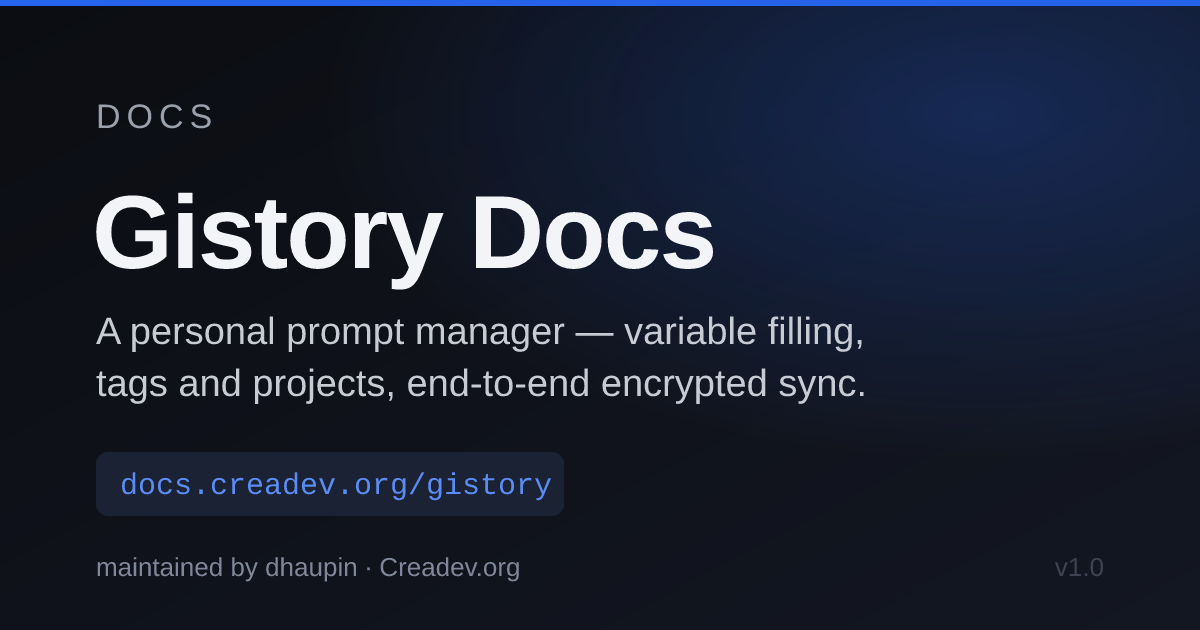
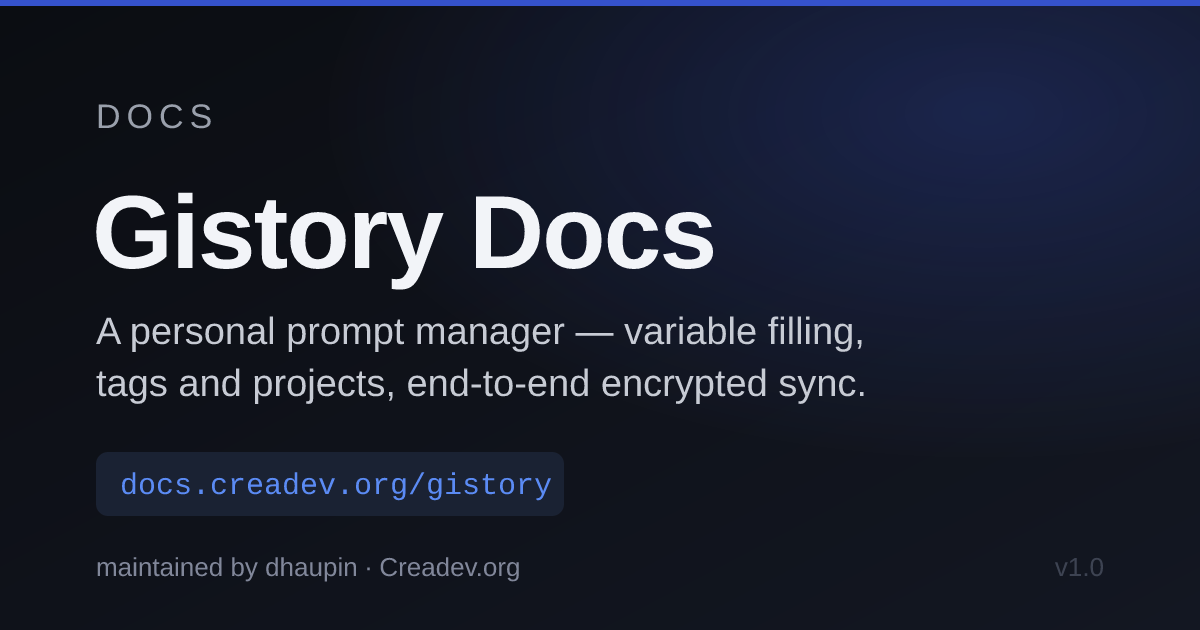
Brand palette: deep indigo-blue primary + cool ink ramp, both themes
- --primary #2563eb -> #3552cc (hover #2a41a8): same trust family, a
  shade that is ours; white-on-fill contrast rises from ~4.5:1 to 6.5:1
- dark mode keeps the light-fill pattern in the same family: app
  #7b95f5 + #0a1021 fill text, docs #8ba4ff (docs uses --primary as
  link text on dark surfaces, so it needs the lighter half)
- ink ramp (approved option-1 tweaks): --text #0c0d10, --text-dim
  #565b66 on #f6f7f9; dark #101217/#191c23/#2b2f38 with a whisper of
  the primary hue; notfound/bootsplash token blocks + stray fallback
  literals follow
- favicon tile + theme-color #080808 -> #0c0d10; OG cards regenerated
  via build:og (docs/, public/, horcrux handoff)
- scripts/verify-palette.mjs: WCAG 2.1 receipt over 15 token pairs
  (app+docs, both themes, brand mark) — PASS; block parser handles
  comments/nested braces; scripts/verify-palette-live.mjs asserts the
  preview renders the new tokens; docs-frame fixture still green

🤖 Generated with Codebuff

Changed region(s): [[0.0, 0.0, 1.0, 0.0302]]

diff --git a/src/index.css b/src/index.css
@@ -3,13 +3,13 @@
 }
 
 :root {
-  --bg: #fafafa;
+  --bg: #f6f7f9;
   --surface: #ffffff;
-  --border: #e0e0e0;
-  --text: #1a1a1a;
-  --text-dim: #666666;
-  --primary: #2563eb;
-  --primary-hover: #1d4ed8;
+  --border: #dfe2e7;
+  --text: #0c0d10;
+  --text-dim: #565b66;
+  --primary: #3552cc;
+  --primary-hover: #2a41a8;
   --danger: #dc2626;
 
   /* Text colour for content sitting on a --primary / --danger fill. The dark
@@ -27,15 +27,17 @@
 }
 
 body.dark {
-  --bg: #0f0f0f;
-  --surface: #1a1a1a;
-  --border: #333333;
-  --text: #e5e5e5;
-  --text-dim: #999999;
-  --primary: #60a5fa;
-  --primary-hover: #93c5fd;
+  /* The dark ramp carries a whisper of the primary's hue, so surfaces and
+     accents read as one brand instead of pure gray at night. */
+  --bg: #101217;
+  --surface: #191c23;
+  --border: #2b2f38;
+  --text: #ecedf1;
+  --text-dim: #9aa1ae;
+  --primary: #7b95f5;
+  --primary-hover: #96aef9;
   --danger: #f87171;
-  --primary-fg: #08101f;
+  --primary-fg: #0a1021;
   --danger-fg: #2b0a0a;
   --success-bg: #10281a;
   --success-fg: #6ee7a8;
@@ -1510,7 +1512,7 @@ textarea::placeholder {
 }
 
 .bulk-toggle.on {
-  color: var(--primary, #2563eb);
+  color: var(--primary, #3552cc);
 }
 
 /* Empty state text */
@@ -3129,14 +3131,14 @@ textarea::placeholder {
    404 page deliberately never runs — so dark visitors get the OS preference. */
 @media (prefers-color-scheme: dark) {
   .notfound {
-    --bg: #0f0f0f;
-    --surface: #1a1a1a;
-    --border: #333333;
-    --text: #e5e5e5;
-    --text-dim: #999999;
-    --primary: #60a5fa;
-    --primary-hover: #93c5fd;
-    --primary-fg: #08101f;
+    --bg: #101217;
+    --surface: #191c23;
+    --border: #2b2f38;
+    --text: #ecedf1;
+    --text-dim: #9aa1ae;
+    --primary: #7b95f5;
+    --primary-hover: #96aef9;
+    --primary-fg: #0a1021;
   }
 }
 
@@ -3155,7 +3157,7 @@ textarea::placeholder {
   width: 10px;
   height: 10px;
   border-radius: 999px;
-  background: var(--primary, #60a5fa);
+  background: var(--primary, #7b95f5);
   animation: boot-pulse 1.1s ease-in-out infinite;
 }
 @keyframes boot-pulse {
@@ -3221,7 +3223,7 @@ textarea::placeholder {
   text-overflow: ellipsis;
   white-space: nowrap;
   font-size: 0.75rem;
-  color: var(--primary, #2563eb);
+  color: var(--primary, #3552cc);
 }
 
 .variable-value {

diff --git a/docs/assets/main.css b/docs/assets/main.css
@@ -8,23 +8,27 @@
    preference. Every dark token therefore hangs off that attribute, and the
    toggle is a real control, not just prefers-color-scheme. */
 :root {
-  --bg: #f7f7f8;
+  --bg: #f6f7f9;
   --surface: #ffffff;
-  --text: #16181d;
-  --text-dim: #5f6470;
-  --border: #e3e4e8;
-  --primary: #2563eb;
+  --text: #0c0d10;
+  --text-dim: #565b66;
+  --border: #dfe2e7;
+  --primary: #3552cc;
   --primary-fg: #ffffff;
   --sidebar-width: 240px;
   --header-height: 52px;
 }
 
 :root[data-theme='dark'] {
-  --bg: #131418;
-  --surface: #1c1e24;
-  --text: #eceef2;
-  --text-dim: #9aa0ac;
-  --border: #2c2f37;
+  --bg: #101217;
+  --surface: #191c23;
+  --text: #ecedf1;
+  --text-dim: #9aa1ae;
+  --border: #2b2f38;
+  /* The docs use --primary as text/link colour on dark surfaces too, so dark
+     needs the lighter half of the family (the app splits this across a
+     light-fill --primary + --primary-fg; here one token does both jobs). */
+  --primary: #8ba4ff;
 }
 
 * { box-sizing: border-box; }
@@ -125,6 +129,16 @@ body {
   margin: 0 auto;
   padding: 2rem 1.25rem;
   flex: 1;
+}
+
+.docs-logo {
+  display: inline-block;
+  width: 24px;
+  height: 24px;
+  margin-right: 0.45rem;
+  vertical-align: -6px; /* the mark sits on a dark tile; center it on the caps line */
+  border-radius: 5px; /* clip on theme surfaces that differ from the tile */
+  flex-shrink: 0;
 }
 
 .docs-nav { font-size: 0.92rem; }

diff --git a/docs/_layouts/default.html b/docs/_layouts/default.html
@@ -7,6 +7,7 @@
   <!-- freestruct injects description/OG/Twitter/canonical/JSON-LD post-build
        (docs/_freestruct templates). The Jekyll head stays meta-free on purpose:
        the engine deletes conflicting tags it did not write (missing-only gate). -->
+  <link rel="icon" type="image/svg+xml" href="{{ '/favicon.svg' | relative_url }}">
   <link rel="stylesheet" href="{{ '/assets/main.css' | relative_url }}">
   <link rel="stylesheet" href="{{ '/pagefind/pagefind.css' | relative_url }}" data-pagefind-ignore>
   <!-- Theme before first paint: the attr on <html> drives the dark token
@@ -34,7 +35,7 @@
         <path d="M3 6h18M3 12h18M3 18h18"/>
       </svg>
     </button>
-    <a class="docs-brand" href="{{ '/' | relative_url }}">Gistory <span>docs</span></a>
+    <a class="docs-brand" href="{{ '/' | relative_url }}"><img src="{{ '/favicon.svg' | relative_url }}" class="docs-logo" alt="" width="24" height="24">Gistory <span>docs</span></a>
     <div class="docs-header-right">
       <button class="docs-icon-btn" id="docsSearchTrigger" aria-label="Search" aria-haspopup="dialog">
         <svg viewBox="0 0 24 24" fill="none" stroke="currentColor" stroke-width="2" aria-hidden="true">

diff --git a/index.html b/index.html
@@ -22,7 +22,7 @@
     <link rel="canonical"    href="https://gistory.creadev.org/" />
 
     <link rel="icon" type="image/svg+xml" href="/favicon.svg" />
-    <meta name="theme-color" content="#080808" />
+    <meta name="theme-color" content="#0c0d10" />
   </head>
   <body>
     <div id="root"></div>

diff --git a/labs/TASKS.md b/labs/TASKS.md
@@ -1023,5 +1023,21 @@ Conventions
   scripts/verify-docs-frame.mjs renders the layout as a static fixture and
   drives drawer/theme/search in a browser (PASS: active marking, theme
   persists across reload, sun/moon swap, Ctrl+K/Escape, off-canvas
-  geometry, backdrop-close on the exposed area). Ruby absent locally —
+  geometry, backdrop-close on the exposed area).  Ruby absent locally —
   Jekyll + freestruct + pagefind verify in the docs workflow at deploy.
+  Logo/favicon added too: public/favicon.svg copied to docs/favicon.svg,
+  linked in the layout head and inlined in the header brand tile with a
+  docs-logo clip radius; the fixture asserts the img renders and the
+  icon link resolves.
+  Palette decision applied (user approved): signature shade = deeper
+  indigo-blue --primary #3552cc (hover #2a41a8 light; dark themes get the
+  lighter half: app #7b95f5 light-fill + #0a1021 fg, docs #8ba4ff text/link)
+  plus option-1 ink tweaks — cooler denser ramp: --text #0c0d10,
+  --text-dim #565b66 on #f6f7f9, dark ramp #101217/#191c23/#2b2f38 with a
+  whisper of the primary hue. Favicon tile + theme-color #080808→#0c0d10,
+  OG cards regenerated (build:og). Contrast receipt: scripts/
+  verify-palette.mjs (WCAG 2.1 ratios, 15 pairs, both themes, app+docs,
+  favicon; PASS — deep primary raised the white-on-fill ratio 6.5:1) —
+  parser handles comments/nested braces after a one-regex grab misfired.
+  scripts/verify-palette-live.mjs asserts the preview renders the tokens.
+
